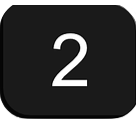
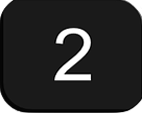
Terminado
Terminado

diff --git a/js/app.js b/js/app.js
@@ -1,25 +1,55 @@
-display2="";
+var display2="";
+
 function escribir(n){
-  var display=document.getElementById("display").innerHTML;
-  if (display==0 && n!='.') {
-    displayN =display.replace(0,"");
-    document.getElementById("display").innerHTML=displayN+n;
-  }else {
-    document.getElementById("display").innerHTML=display+n;
+
+  var display1=document.getElementById("display").innerHTML;
+  var n1=display1.length
+  var punto=display1.indexOf(".")
+  var repeticion=0
+
+  for (var i = 0; i < display1.length; i++) {
+    if (display1.charAt(i)==".") {
+      repeticion++;
+    }
   }
+
+  if (display1=="0" && n!='.') {
+    displayN =display1.replace("0","");
+    document.getElementById("display").innerHTML=displayN+n;
+  } else if(n1<8 && punto==-1){
+      if (n=='.' && repeticion>0) {
+      document.getElementById("display").innerHTML=display1;
+      } else {
+          document.getElementById("display").innerHTML=display1+n;
+          repeticion=0;
+        }
+    } else if (n1<9 && punto!=-1) {
+        if (n=='.' && repeticion>0) {
+            document.getElementById("display").innerHTML=display1;
+        } else {
+            document.getElementById("display").innerHTML=display1+n;
+            repeticion=0;
+          }
+      }
+}
+function escribir1(x){
+    MouseOver(x);
+    escribir(x);
 }
 
 function limpiar(){
+  MouseOver('on');
   document.getElementById("display").innerHTML=0;
-  document.getElementById("display2").innerHTML=0;
+  display2="";
 }
 
 function masmenos(){
-  var display=document.getElementById("display").innerHTML;
-  if (display>0) {
-    document.getElementById("display").innerHTML="-"+display;
+  MouseOver('sign');
+  var display1=document.getElementById("display").innerHTML;
+  if (display1>0) {
+    document.getElementById("display").innerHTML="-"+display1;
   }else {
-    displayN=display.replace(/[-|(|)]/g, "")
+    displayN=display1.replace(/[-|(|)]/g, "")
     document.getElementById("display").innerHTML=displayN;
   }
 }
@@ -34,15 +64,35 @@ if (display1!="" && display2=="") {
   document.getElementById("display").innerHTML="";
   }
 }
+function aritmetica1(x){
+  aritmetica(x);
+  MouseOver(x);
+}
 
 function calcular(){
   var display1=document.getElementById("display").innerHTML;
-  /*var display2=document.getElementById("display2").innerHTML;*/
-  document.getElementById("display").innerHTML=eval(display2+display1);
-  display2="";
+  var resultado=eval(display2+display1);
+  var cadena=resultado.toString()
+  var punto=display1.indexOf(".")
+  var n1=cadena.length
+  if (n1<8) {
+    document.getElementById("display").innerHTML=cadena.substr(0,8);
+    display2="";
+  } else if(n1>7){
+      document.getElementById("display").innerHTML=cadena.substr(0,9);
+      display2="";
+    }
 }
 
 function raiz(){
   var display1=document.getElementById("display").innerHTML;
   document.getElementById("display").innerHTML=Math.sqrt(display1);
+  MouseOver('raiz');
+}
+
+function MouseOver(x) {
+  document.getElementById(x).style="width:19%; height:60px"
+}
+function MouseOut(x) {
+  document.getElementById(x).style="width:22%; height:62.91px"
 }

diff --git a/index.html b/index.html
@@ -26,18 +26,18 @@
         </div>
 
         <div class="teclado">
-          <img src="image/ON.png" alt="On" class="tecla" onclick="limpiar()" id="on"/>
-          <img src="image/sign.png" alt="signo" class="tecla" onclick="masmenos()" id="sign"/>
-          <img src="image/raiz.png" alt="raiz" class="tecla"onclick="raiz()" id="raiz"/>
-          <img src="image/dividido.png" alt="dividido" class="tecla divide" onclick="aritmetica('/')" id="dividido"/>
-          <img src="image/7.png" alt="7" class="tecla" onClick="escribir(7)" id='7'/>
-          <img src="image/8.png" alt="8" class="tecla" onClick="escribir(8)" id="8"/>
-          <img src="image/9.png" alt="9" class="tecla" onClick="escribir(9)" id="9"/>
-          <img src="image/por.png" alt="por" class="tecla multiplica" onclick="aritmetica('*')" id="por"/>
-          <img src="image/4.png" alt="4" class="tecla" onClick="escribir(4)" id="4"/>
-          <img src="image/5.png" alt="5" class="tecla" onClick="escribir(5)" id="5"/>
-          <img src="image/6.png" alt="6" class="tecla" onClick="escribir(6)" id="6"/>
-          <img src="image/menos.png" alt="menos" class="tecla resta" onclick="aritmetica('-')" id="menos"/>
+          <img src="image/ON.png" alt="On" class="tecla" onclick="limpiar()" onmouseout="MouseOut('on')" id="on"/>
+          <img src="image/sign.png" alt="signo" class="tecla" onclick="masmenos()" onmouseout="MouseOut('sign')" id="sign"/>
+          <img src="image/raiz.png" alt="raiz" class="tecla"onclick="raiz()" onmouseout="MouseOut('raiz')" id="raiz"/>
+          <img src="image/dividido.png" alt="dividido" class="tecla divide" onclick="aritmetica('/')" onmouseout="MouseOut('dividido')" id="dividido"/>
+          <img src="image/7.png" alt="7" class="tecla" onClick="escribir1(7)" onmouseout="MouseOut(7)" id='7'/>
+          <img src="image/8.png" alt="8" class="tecla" onClick="escribir1(8)" onmouseout="MouseOut(8)" id="8"/>
+          <img src="image/9.png" alt="9" class="tecla" onClick="escribir1(9)" onmouseout="MouseOut(9)" id="9"/>
+          <img src="image/por.png" alt="por" class="tecla multiplica" onclick="aritmetica('*')" onmouseout="MouseOut('por')" id="por"/>
+          <img src="image/4.png" alt="4" class="tecla" onClick="escribir1(4)" onmouseout="MouseOut(4)" id="4"/>
+          <img src="image/5.png" alt="5" class="tecla" onClick="escribir1(5)" onmouseout="MouseOut(5)"id="5"/>
+          <img src="image/6.png" alt="6" class="tecla" onClick="escribir1(6)" onmouseout="MouseOut(6)" id="6"/>
+          <img src="image/menos.png" alt="menos" class="tecla resta" onclick="aritmetica('-')" onmouseout="MouseOut('menos')" id="menos"/>
 
           <div class="row">
             <div class="col1">
